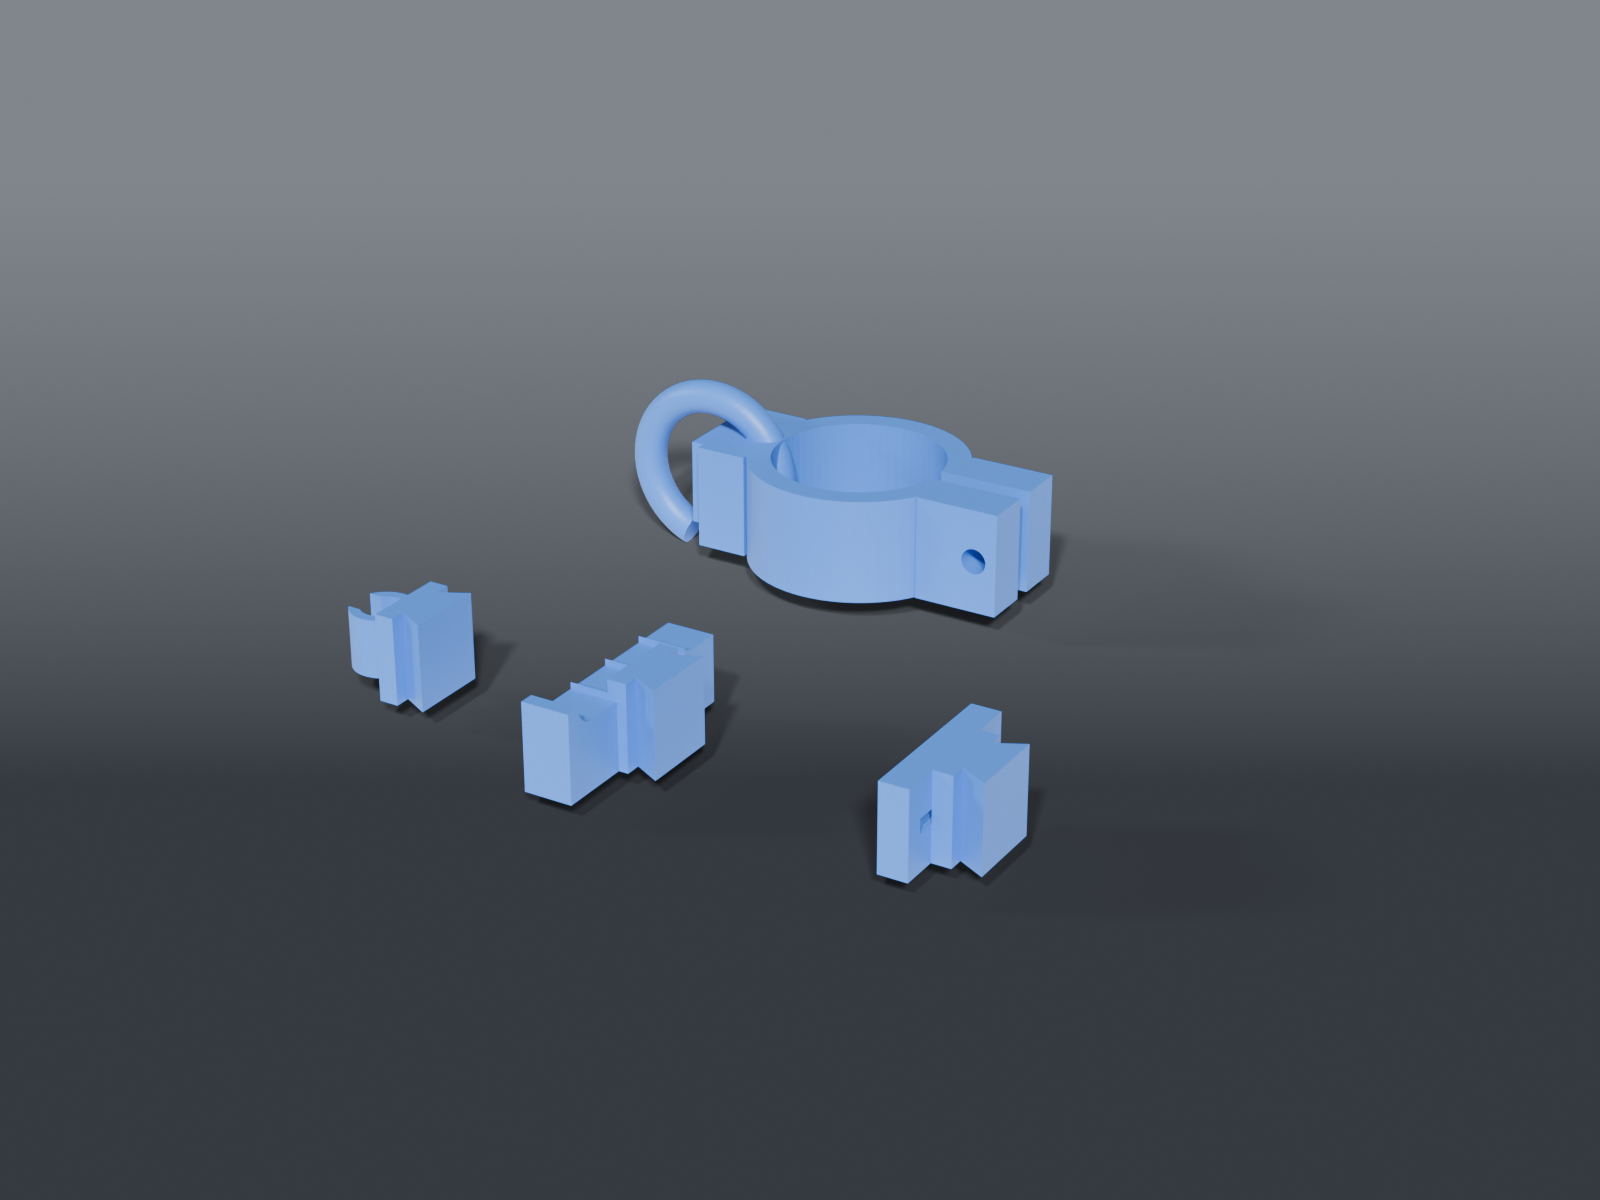
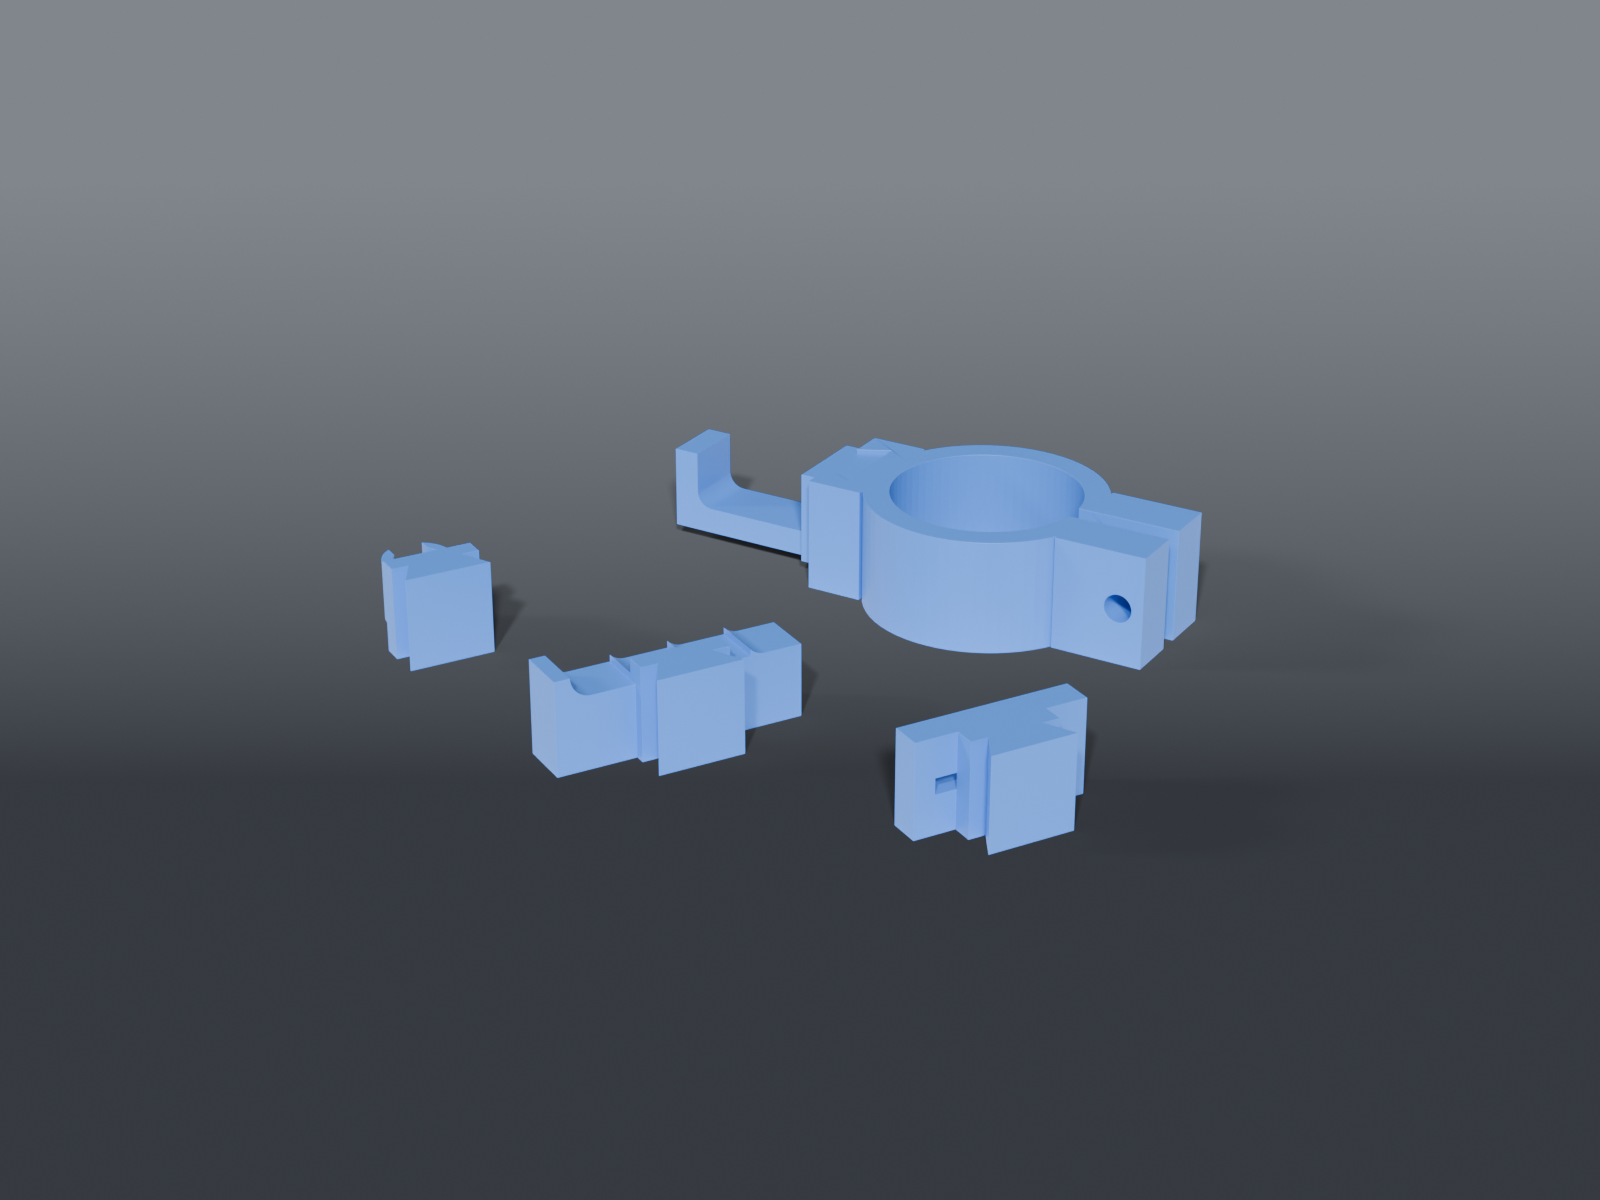
fix(stand-cable-clamp): hook head is a J in front of the mount, not a ring through the clamp

Changed region(s): [[0.2188, 0.3083, 0.75, 0.74]]

diff --git a/stand-cable-clamp/README.md b/stand-cable-clamp/README.md
@@ -13,7 +13,7 @@ Sized for the **On-Stage SS8800B+** upper shaft (**34.9 mm** / 38.1 mm with slee
 | `clamp.scad` | Split C-clamp, generic (set `tube_d`; default 35 mm ≈ universal speaker pole / SS8800B+ shaft). Pops over the pole; M5 bolt + **wingnut** cinches it (bolt head captured in a hex pocket — only the wingnut turns). Dovetail mount on the face. |
 | `clamp_leg.scad` | Clamp sized for the On-Stage SS8800B+ **tripod legs** (35.38 mm). |
 | `clamp_column.scad` | Clamp sized for the On-Stage SS8800B+ **crank-up column** (41.41 mm). |
-| `head_hook.scad` | Open J-hook — drape/loop cables |
+| `head_hook.scad` | J-hook — a flat arm straight out from the mount and an upturned lip; cables drape into the 25 mm trough between them |
 | `head_clip.scad` | Snap C-clip — grips a single cable (`CABLE_D`) |
 | `head_comb.scad` | Multi-cable comb — a row of cable slots |
 | `head_velcro.scad` | Velcro-strap slot — thread a hook-and-loop strap to bundle |
@@ -21,6 +21,10 @@ Sized for the **On-Stage SS8800B+** upper shaft (**34.9 mm** / 38.1 mm with slee
 Heads are **universal** — they all share the dovetail, independent of `tube_d`. Slide on/off; no tools.
 
 Built from `stand_cable_clamp_common.scad` (clamp + dovetail + head modules).
+
+## Hook head, v1.1.1
+
+The hook in v1.1.0 was a 250° ring centred on the head's mounting plate, so it looped back round the mount and into the clamp body. It overlapped the clamp by 340 mm³ and could not slide into the dovetail. The hook is now a J-profile that sits entirely in front of the mounting plate, and it prints dovetail-down with no supports like the other heads.
 
 ## Hardware
 
